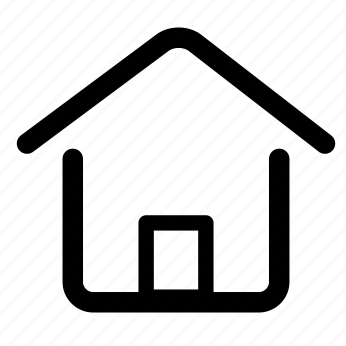
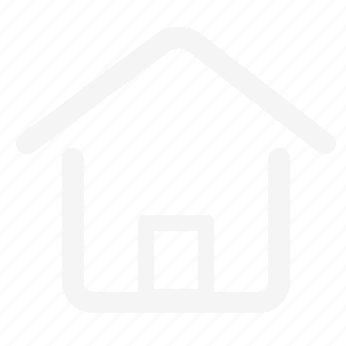
adding navbar, adding homenav

Changed region(s): [[0.1734, 0.4046, 0.8382, 0.9249], [0.0289, 0.0578, 0.9827, 0.4624]]

diff --git a/src/components/NavBar.js b/src/components/NavBar.js
@@ -1,0 +1,34 @@
+import React from "react";
+
+import { ATTR, EL } from "../constants";
+
+import "../style/NavBar.css";
+
+
+export default function NavBar(props) {
+    return React.createElement(
+        EL.DIV,
+        {
+            [ATTR.KEY]: "nav-bar",
+            [ATTR.CLASSNAME]: "nav-bar",
+        },
+        props[ATTR.CHILDREN],
+    )
+}
+
+export function HomeNav(props) {
+    return React.createElement(
+        EL.A,
+        {
+            [ATTR.CLASSNAME]: "home-nav",
+            [ATTR.ONCLICK]: props[ATTR.ONCLICK],
+        },
+        React.createElement(
+            EL.IMG,
+            {
+                [ATTR.SRC]: "images/home.png",
+                [ATTR.CLASSNAME]: "home-img",
+            }
+        )
+    )
+}

diff --git a/src/components/Template.js b/src/components/Template.js
@@ -6,10 +6,24 @@ import { ATTR, EL, SHOW_UNDER } from "../constants";
 
 import "../style/Template.css";
 
+import NavBar, { HomeNav } from "./NavBar";
+
 
 class Template extends React.Component {
     render() {
         const children = this.props[ATTR.CHILDREN];
+
+        children.splice(0, 0, React.createElement(
+            NavBar,
+            null,
+            React.createElement(
+                HomeNav,
+                {
+                    [ATTR.ONCLICK]: this.props[ATTR.HOME_FN],
+                }
+            )
+        ));
+
         children.push(React.createElement(
             ScrollToTop,
             {

diff --git a/src/style/BlogPost.css b/src/style/BlogPost.css
@@ -1,10 +1,11 @@
 .blog-post {
     display: block;
     text-align: center;
-    width: 90%;
     margin: auto;
-    margin-top: 2em;
-    margin-bottom: 2em;
+    margin-left: 5%;
+    margin-right: 5%;
+    margin-top: 2.5em;
+    margin-bottom: 2.5%;
     padding: 2em;
     font-family: Montserrat, sans-serif, Arial;
     text-align: center;

diff --git a/src/index.js b/src/index.js
@@ -85,6 +85,7 @@ class Index extends React.Component {
             Template,
             {
                 [ATTR.CHILDREN]: [this.pages[this.state[ATTR.PAGE]]],
+                [ATTR.HOME_FN]: this.updatePageWrapper("index"),
             },
         );
     }

diff --git a/src/constants.js b/src/constants.js
@@ -9,6 +9,7 @@ export const ATTR = {
     CHILDREN: "children",
     CLASSNAME: "className",
     COLOR: "color",
+    HOME_FN: "home_fn",
     MOUSEOVER_COLOR: "mouseover_color",
     ONMOUSEENTER: "onMouseEnter",
     ONMOUSELEAVE: "onMouseLeave",

diff --git a/src/style/NavBar.css b/src/style/NavBar.css
@@ -1,0 +1,18 @@
+.nav-bar {
+    margin-left: 0.5vw;
+    width: 0;
+    height: 0;
+    text-align: left;
+    float: left;
+}
+
+.home-nav {
+
+}
+
+.home-img {
+    width: 3vw;
+    position: absolute;
+    left: 1.5%;
+    top: 2.5em;
+}
